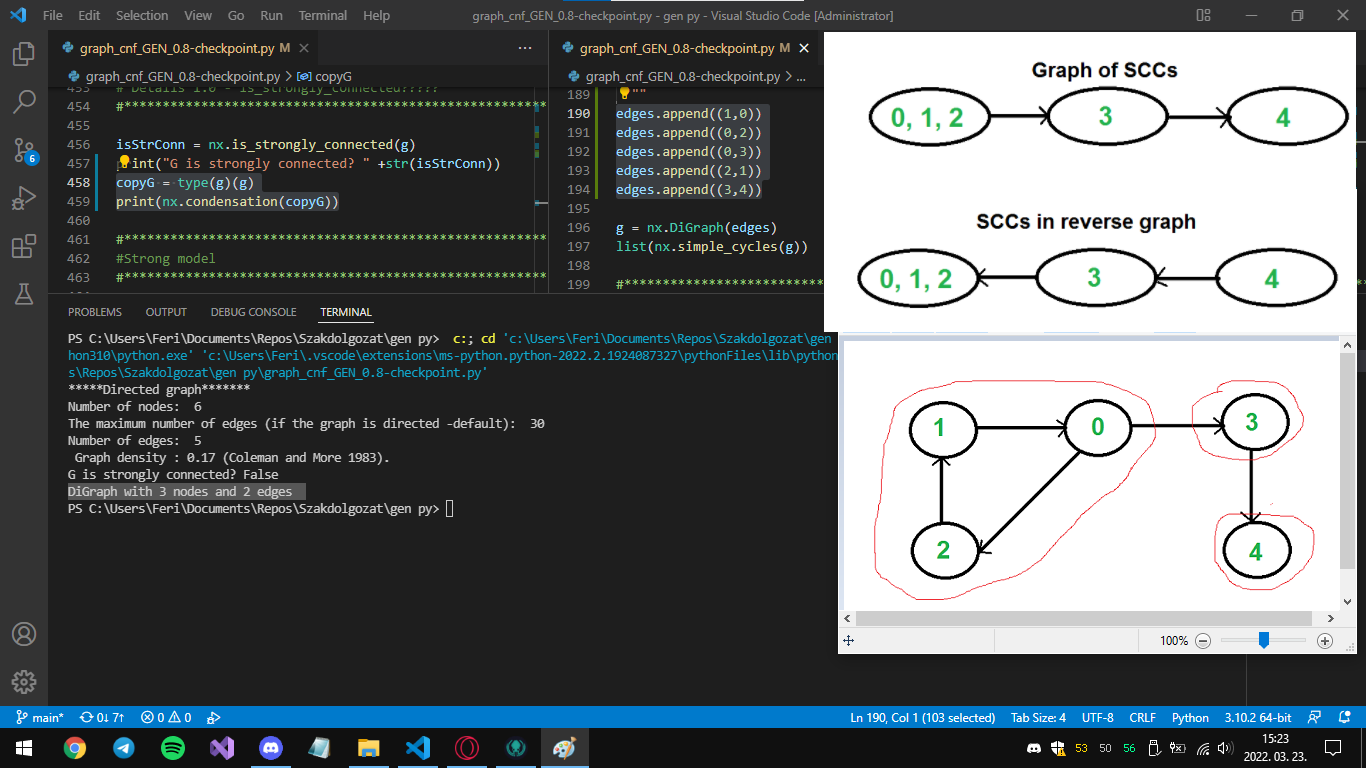
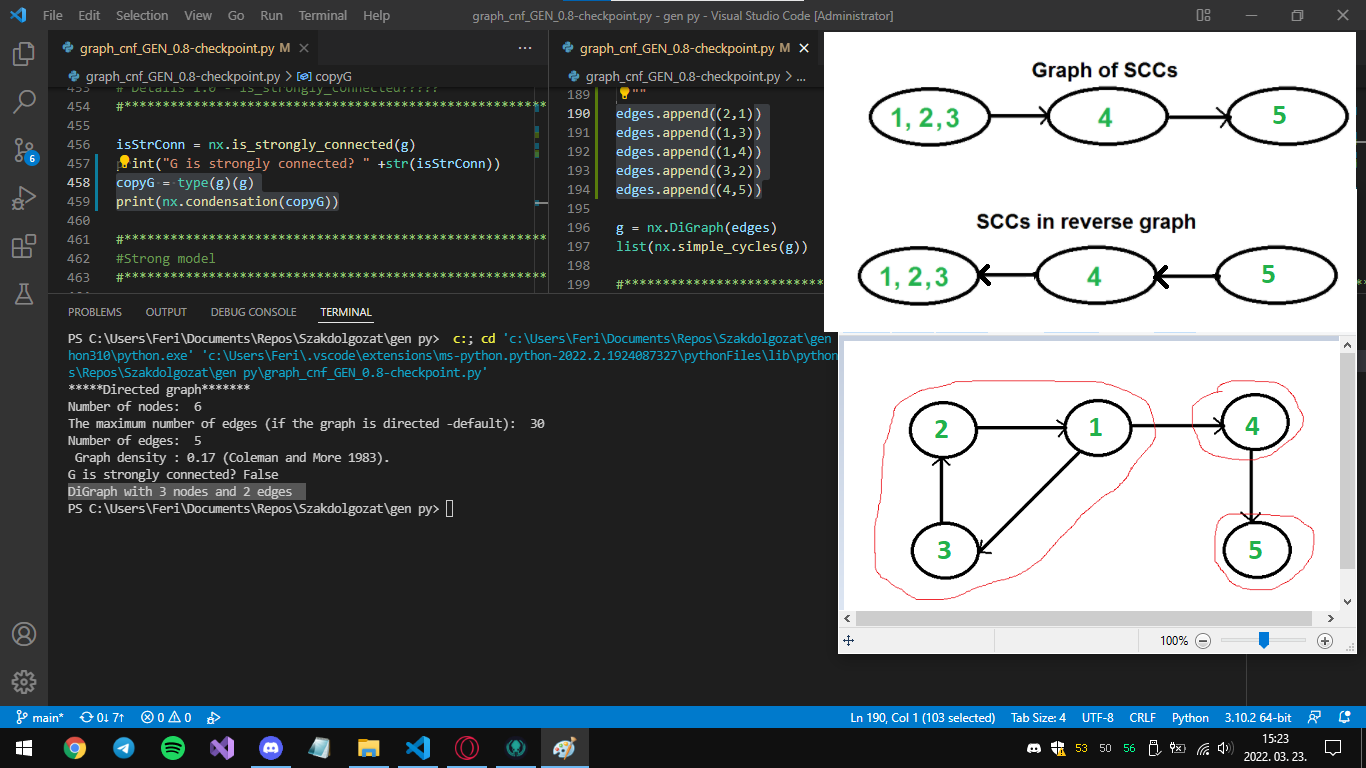
Realised that wrong algorithm was implemented
It took some time to see, that I made an overcomplicated version of Johnson's algorithm. Started from it, but took a wrong turn. Realised, that I'm patching mistakes over mistakes... So start again.

diff --git a/gen py/graph_cnf_GEN_0.8-checkpoint.py b/gen py/graph_cnf_GEN_0.8-checkpoint.py
@@ -1,5 +1,4 @@
 from collections import defaultdict
-from operator import neg
 import matplotlib
 matplotlib.use('TkAgg')
 #import matplotlib.pyplot as plt
@@ -42,11 +41,11 @@ def simple_cycles(G):
 		startnode = scc.pop()
 		# Processing node runs "circuit" routine from recursive version ( recursive version = teljessen másik verzió/implementációból)
 		path = [startnode]
-		blocked = set() # vertex: blocked from search? Maybe visited?
+		blocked = set() # vertex: blocked from search? # Maybe visited?
 		closed = set() # nodes involved in a cycle
 		blocked.add(startnode)
 		B = defaultdict(set) # graph portions that yield no elementary circuit
-		stack = [(startnode, list(sccG[startnode]))] # sccG gives comp neibrs # sccGraph gives component numbers
+		stack = [(startnode, list(sccG[startnode]))] # sccG gives comp neibrs # sccGraph gives component neighbors
 		while stack:
 			thisnode, neibrs = stack[-1]
 			if neibrs:
@@ -221,7 +220,12 @@ Egy félig összefüggő gráf olyan gráf, ami
 	- Topológiailag rendezzük a kapott DAG-ot.
 	- Ha van él minden adott csúcs közt (v[i], v[i+1]), akkor az adott gráf
 	félig összefüggő.
-	Side note: Legyen G-nek az éle, amivel össze van kötve = (v[i], v[i+1]).
+	Side note: Az algráf minden éle legyen G-nek az éle, amivel össze van kötve = (v[i], v[i+1]).
+
+	
+	# Johnson algoritmusának szüksége van a csomópontok rendezésére. Az erősen összetett komponensek által megadott tetszőleges sorrendet rendelünk a csúcsokhoz.
+	# Nem szükséges a rendezés számontartása, mivel minden csomópont feldolgozás után törölve lesz. Valamint az eredeti gráfot elmentjük, hogy változtathassuk. 
+	# Csak az éleket vegyük ki, mert nincs szükség a tulajdonságaira.
 '''
 #stack-ben csak egyszer szerepelhet egy elem. Ezért lehetséges. Nem ismétlődnek az scc elemei.
 
@@ -238,29 +242,33 @@ def weak_model_gen(G):
 	exitpoints = []
 	all_clauses = []
 	edges_plus = []
-	edges = [G.edges()]
+	edges = type(G)(G.edges())
+	print("minden él:", edges.edges())
 	# Todo: scc_count legyen a len(G.nodes()), mint alap érték, hogy nagyobb legyen bármelyik node számánál az scc-t helyettesítő node száma.
 	# Todo: Lehet jobb, biztosabb megoldást kell erre kitalálni.
 	scc_count = len(G.nodes())
 	Graph = nx.DiGraph(G.edges())
 	sccStack = [scc for scc in nx.strongly_connected_components(Graph) if len(scc) > 1]
-	# Todo: edges-nek átadni az összes élt. Az scc-k éleit törölni és kicserélni a scc_count + exitpoint kimenetre
 	while sccStack:
 		scc_Cycle = sccStack.pop()
 		scc_count += 1
-		for scc_elem in scc_Cycle:
-			negative_literals.append(-scc_elem)		#! neg literal
-			neibrs = [ des for des in nx.descendants_at_distance(Graph, scc_elem, 1)]
-			print("next kör:" + str(scc_Cycle.next()))
-			print("next szomszéd:" + str(neibrs)) #todo vagy BFS helyett.
-			while neibrs:
-				neighbor = neibrs.pop()
-				if neighbor != scc_elem: # Todo: ez egy cikluson belül van, mindig igaz, mert sose a szomszédjához hasonlítja. Kéne egy BFS?
-					# print("scc_count: %i, neighbor: %i" % (scc_count, neighbor))
-					edges_plus.append((scc_count, neighbor))
-					exitpoints.append(neighbor)	#! pos literal
-				edges.remove((scc_elem, neighbor))
-				# print("Neibours %i. edge: " % neighbor + str(edges))
+		for scc_elem_x in scc_Cycle:
+			negative_literals.append(-scc_elem_x)		#! neg literal
+			dads_one_far = [ des for des in nx.descendants_at_distance(Graph, scc_elem_x, 1)]
+			print("next szomszéd:", dads_one_far)
+			while dads_one_far:
+				dad_element = dads_one_far.pop()
+				for scc_elem_y in scc_Cycle:
+					if dad_element != scc_elem_y:
+						print("scc: %i, szomszédja: %i" % (scc_count, dad_element))
+						edges_plus.append((scc_count, dad_element))
+						exitpoints.append(dad_element)	#! pos literal
+						break
+					
+					print("Törölt él:", (scc_elem_x, dad_element))
+					# scc_Cycle.remove(scc_elem_x)
+					edges.remove_edge(scc_elem_x, dad_element)
+				# print("Neighbors %i. edge: " % dad_element + str(edges))
 			exitpoints.append(0.1)
 			for i in negative_literals:
 				all_clauses.append(i)
@@ -271,6 +279,9 @@ def weak_model_gen(G):
 
 		negative_literals = []
 		exitpoints = []
+
+	# Todo: edges-nek átadni az összes élt. Az scc-k éleit törölni és kicserélni a scc_count + exitpoint kimenetre
+	# edges és edges_plus-t rendezni. Hogy jó  wm  legyen tárolva.
 
 	wm = nx.DiGraph(edges_plus)
 	isDAG = nx.is_directed_acyclic_graph(wm)
@@ -407,7 +418,7 @@ isStrConn = nx.is_strongly_connected(g)
 print("G is strongly connected? " +str(isStrConn))
 copyG = type(g)(g)
 # print(nx.condensation(copyG))
-weak_model_gen(copyG)
+weak_model_gen(g)
 
 #**************************************************************************************************************
 #Strong model

diff --git a/gen py/graph_cnf_GEN_0.9.py b/gen py/graph_cnf_GEN_0.9.py
@@ -1,0 +1,115 @@
+import collections
+from collections import defaultdict
+import networkx as nx
+
+def _main():
+    edges = []
+    edges.append((2,1))
+    edges.append((1,3))
+    edges.append((1,4))
+    edges.append((3,2))
+    edges.append((4,5))
+
+    g = nx.DiGraph(edges)
+
+#**************************************************************************************************************
+#Weak Model elkepzeles
+#**************************************************************************************************************
+''' define the weak model
+A semi-connected graph is a graph that for each pair of vertices u,v,
+	there is either a path from u to v or a path from v to u.
+	Give an algorithm to test if a graph is semi-connected.
+ Given a graph G=(V,E)
+	-Find strongly connected components in G
+	-Replace each SCC with a vertex, G become a directed acyclic graph (DAG)
+	-Topological sort on DAG
+	-If there is an edge between each pair of vertices(v[i],v[i+1]) then
+	the given graph is semi-connected
+
+Egy félig összefüggő gráf olyan gráf, ami
+	minden pár csúcs u, v közt van él u-ból v-be vagy v-ből u-ba.
+	Adott egy algoritmus, ami leteszteli, ha egy gráf félig összefüggő.
+ Adott egy gráf G = (V, E)
+	- Találjuk meg G erősen összetett komponenseit (scc).
+	- Cseréljük ki az összes scc-t egy csúcsra, és G
+	egy irányított aciklikus gráf (DAG) lett.
+	- Topológiailag rendezzük a kapott DAG-ot.
+	- Ha van él minden adott csúcs közt (v[i], v[i+1]), akkor az adott gráf
+	félig összefüggő.
+	Side note: Az algráf minden éle legyen G-nek az éle, amivel össze van kötve = (v[i], v[i+1]).
+
+	
+	# Johnson algoritmusának szüksége van a csomópontok rendezésére. Az erősen összetett komponensek által megadott tetszőleges sorrendet rendelünk a csúcsokhoz.
+	# Nem szükséges a rendezés számontartása, mivel minden csomópont feldolgozás után törölve lesz. Valamint az eredeti gráfot elmentjük, hogy változtathassuk. 
+	# Csak az éleket vegyük ki, mert nincs szükség a tulajdonságaira.
+'''
+
+def weak_model_gen(G):
+    print("Hello World!")
+
+def _unblock(thisnode, blocked, B):
+	stack = {thisnode}
+	while stack:
+		node = stack.pop()
+		if node in blocked:
+			blocked.remove(node)
+			stack.update(B[node])
+			B[node].clear()
+
+def simple_cycles(G):
+	# Johnson's algorithm requires some ordering of the nodes.
+	# We assign the arbitrary ordering given by the strongly connected comps
+	# There is no need to track the ordering as each node removed as processed.
+	# Also we save the actual graph so we can mutate it. We only take the
+	# edges because we do not want to copy edge and node attributes here.
+	subG = type(G)(G.edges())
+	sccStack = [scc for scc in nx.strongly_connected_components(subG) if len(scc) > 1]
+
+	# Johnson's algorithm exclude self cycle edges like (v, v)
+	# To be backward compatible, we record those cycles in advance
+	# and then remove from subG
+	for v in subG:
+		if subG.has_edge(v, v):
+			yield [v]
+			subG.remove_edge(v, v)
+
+	while sccStack:
+		scc = sccStack.pop()
+		sccG = subG.subgraph(scc)
+		# order of scc determines ordering of nodes
+		startnode = scc.pop()
+		# Processing node runs "circuit" routine from recursive version ( recursive version = teljessen másik verzió/implementációból)
+		path = [startnode]
+		blocked = set() # vertex: blocked from search? # Maybe visited?
+		closed = set() # nodes involved in a cycle
+		blocked.add(startnode)
+		B = defaultdict(set) # graph portions that yield no elementary circuit
+		stack = [(startnode, list(sccG[startnode]))] # sccG gives comp neibrs # sccGraph gives component neighbors
+		while stack:
+			thisnode, neibrs = stack[-1]
+			if neibrs:
+				nextnode = neibrs.pop()
+				if nextnode == startnode:
+					yield path[:]
+					closed.update(path)
+#						print "Found a cycle", path, closed
+				elif nextnode not in blocked:
+					path.append(nextnode)
+					stack.append((nextnode, list(sccG[nextnode])))
+					closed.discard(nextnode)
+					blocked.add(nextnode)
+					continue
+			# done with nextnode... look for more neighbors
+			if not neibrs: # no more neibrs
+				if thisnode in closed:
+					_unblock(thisnode, blocked, B)
+				else:
+					for nbr in sccG[thisnode]:
+						if thisnode not in B[nbr]:
+							B[nbr].add(thisnode)
+				stack.pop()
+				#				assert path[-1] == thisnode
+				path.pop()
+		# done processing this node
+		H = subG.subgraph(scc) # make smaller to avoid work in SCC routine
+		sccStack.extend(scc for scc in nx.strongly_connected_components(H) if len(scc) > 1)
